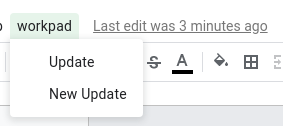
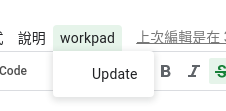
update: remove old Pad object and use new update function with class

diff --git a/information.js b/information.js
@@ -1,101 +1,3 @@
-function Pad() {
-    currentDate = new Date();
-
-    this.year = currentDate.getFullYear();
-    this.month = ("0" + (currentDate.getMonth() + 1)).slice(-2);
-    this.date = ("0" + currentDate.getDate()).slice(-2);
-    this.sheetName = this.year + "/" + this.month;
-
-    this.sheet = SpreadsheetApp.getActiveSpreadsheet().getSheetByName(this.sheetName);
-    if (this.sheet == null) {
-        // TODOs: Create new sheet if sheet not exist
-        throw "NoPadFound"
-    }
-
-    this.lastCol = this.sheet.getRange("1:1").getLastColumn();
-
-    this.showName = function() {
-        Logger.log("Name: " + this.sheetName);
-    }
-
-    // Get current date row number
-    this.getDateRow = function() {
-        var now = new Date();
-        var values = this.sheet.getRange("A:A").getValues();
-        Logger.log("Length of values: " + values.length);
-        // Logger.log(values);
-
-        for (var i = 1; i < values.length; i++ ) {
-            if (_sameDate(now, values[i][0])) {
-                return i + 1;
-            }
-        }
-        return -1;
-    }
-
-    // Get today's pad finished tasks
-    this.getDone = function(row, col) {
-        var runs = this.sheet.getRange(row, col).getRichTextValue().getRuns();
-        var done = [];
-
-        for (var i = 0; i < runs.length; i++) {
-            if (runs[i].getTextStyle().isStrikethrough()) {
-                done.push(runs[i]);
-            }
-        }
-
-        return done;
-    }
-
-    // Get today's pad unfinished tasks
-    this.getUndone = function(row, col) {
-        var runs = this.sheet.getRange(row, col).getRichTextValue().getRuns();
-        var undone = [];
-
-        for (var i = 0; i < runs.length; i++) {
-            if (! runs[i].getTextStyle().isStrikethrough()) {
-                undone.push(runs[i]);
-            }
-        }
-
-        return undone;
-    }
-
-    // Set task for next day
-    this.updateTasks = function(row, col, text) {
-        // Preserve exist text
-        existText = this.sheet.getRange(row, col).getValue().replace(/\s+$/g, "");
-        text = text.replace(/\s+$/g, "");
-
-        if (existText.length != 0) {
-            existText = existText.concat("\n");
-            text = existText + text;
-        }
-        
-        this.sheet.getRange(row, col).setValue(text);
-        this.sheet.getRange(row, col).setVerticalAlignment("top");
-    }
-
-    // Reload today's task
-    this.cleanTasks = function(row, col, text) {
-        text = text.replace(/\s+$/g, "");
-
-        this.sheet.getRange(row, col).setValue(text);
-        this.sheet.getRange(row, col).setVerticalAlignment("top");
-        this.sheet.getRange(row, col).setFontLine("line-through");
-    }
-
-
-    function _sameDate(d1, d2) {
-        return (d1.getDate() === d2.getDate() 
-                && d1.getMonth() === d2.getMonth()
-                && d1.getFullYear() === d2.getFullYear())
-    }
-
-    
-    // TODOs: updatePad method
-}
-
 function getSheet() {
     try {
         var workpad = new Pad();

diff --git a/update.js b/update.js
@@ -1,53 +1,4 @@
 function update() {
-    try {
-        var workpad = new Pad();
-    }
-    catch (e) {
-        Logger.log(e.message);
-        return 1;
-    }
-
-    workpad.showName();
-
-    todayRow = workpad.getDateRow()
-    // Logger.log("Today row: " + todayRow);
-    if (todayRow == -1) {
-        Logger.log("Failed to find date");
-        return 1;
-    }
-
-    Logger.log("Last column: " + workpad.lastCol);
-    // Read through today's tasks and update
-    for (var i = 2; i <= workpad.lastCol; i++) {
-        Logger.log("Column: " + i);
-        var newPadTask = ""
-
-        undoneTasks = workpad.getUndone(todayRow, i);
-        for (var j = 0; j < undoneTasks.length; j++) {
-            Logger.log(undoneTasks[j].getText());
-            taskText = undoneTasks[j].getText().replace(/^\s+|\s+$/g, '');
-            newPadTask += taskText + "\n";
-        }
-        // Set undone task for next day
-        Logger.log("New Task: " + newPadTask);
-        workpad.updateTasks(todayRow + 1, i, newPadTask);
-
-        var padTask = "";
-        doneTasks = workpad.getDone(todayRow, i);
-        for (var j = 0; j < doneTasks.length; j++) {
-            Logger.log(doneTasks[j].getText());
-            taskText = doneTasks[j].getText().replace(/^\s+|\s+$/g, '');
-            padTask += taskText + "\n";
-        }
-        // Update finished task for today
-        Logger.log("Finished Task: " + padTask);
-        workpad.cleanTasks(todayRow, i, padTask);
-    }
-
-}
-
-
-function newUpdate() {
     
     var sheetName = currentSheetName();
     

diff --git a/menu.js b/menu.js
@@ -3,6 +3,5 @@ function onOpen() {
     // Or DocumentApp or FormApp.
     ui.createMenu('workpad')
         .addItem('Update', 'update')
-        .addItem('New Update', 'newUpdate')
         .addToUi();
 }

diff --git a/README.md b/README.md
@@ -8,7 +8,7 @@ Custom daily workpad on google sheet
 
 ## Version 0.1.0
 - Update function: Manually update each day's tasks
-    - `workpad >> New Update`
+    - `workpad >> Update`
 
 ## Usage
 - Fill todo tasks inside each catagory according to planned date  
